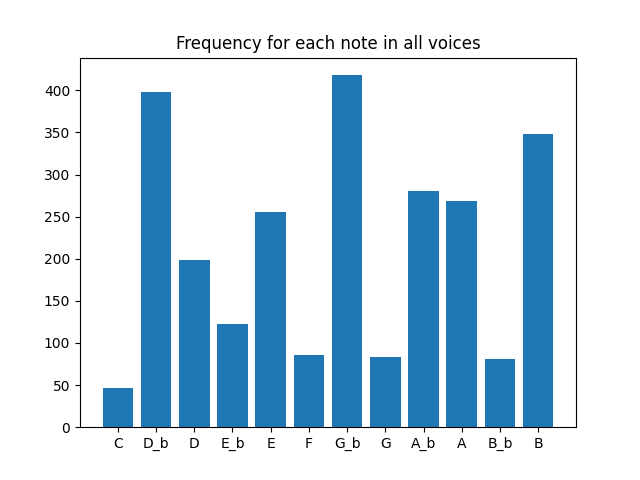
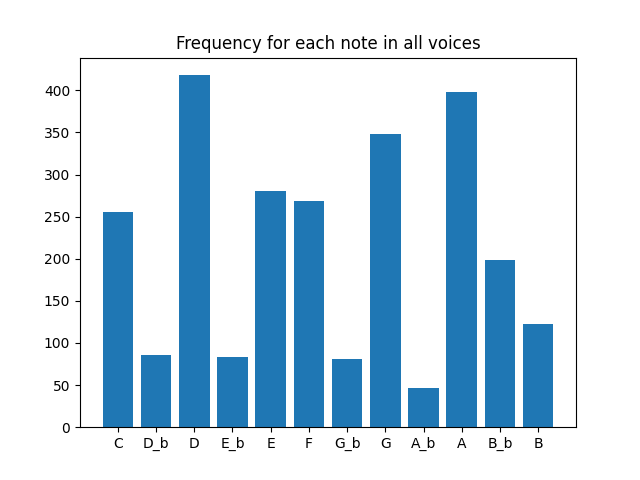
postprocessing experiments

diff --git a/analyseData/investigateData.py b/analyseData/investigateData.py
@@ -14,11 +14,12 @@ for i,line in enumerate(lines):
 
 for i in range(len(lines)):
     for j in range(4):
-        notes[j].append((int)(lines[i][j]))
         if (int)(lines[i][j]) != 0:
-            mod12_notes[j].append( (((int)(lines[i][j])) % 12) + 1)
+            notes[j].append((int)(lines[i][j])+8)
+            mod12_notes[j].append( (((int)(lines[i][j]) +8 ) % 12) + 1)
         else:
             mod12_notes[j].append(0)
+            notes[j].append(0)
 
 f.close()
 
